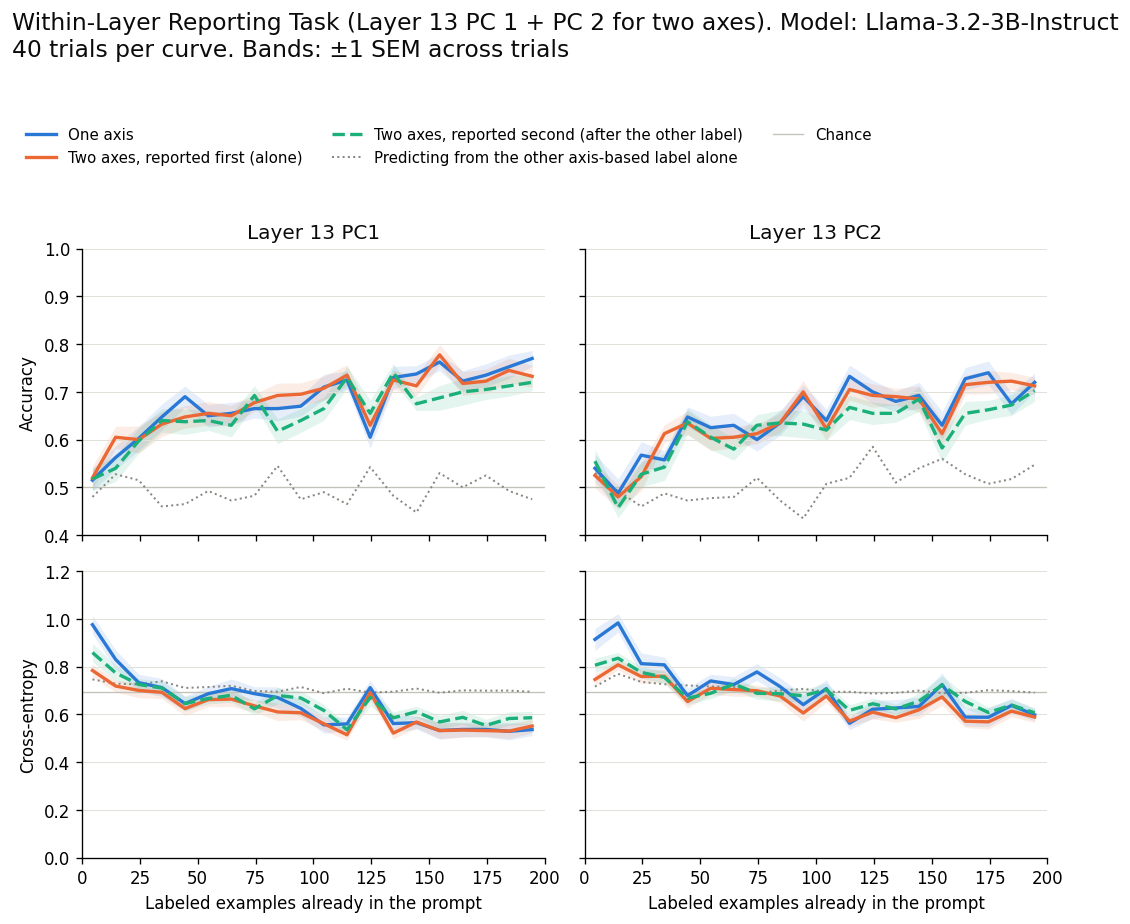
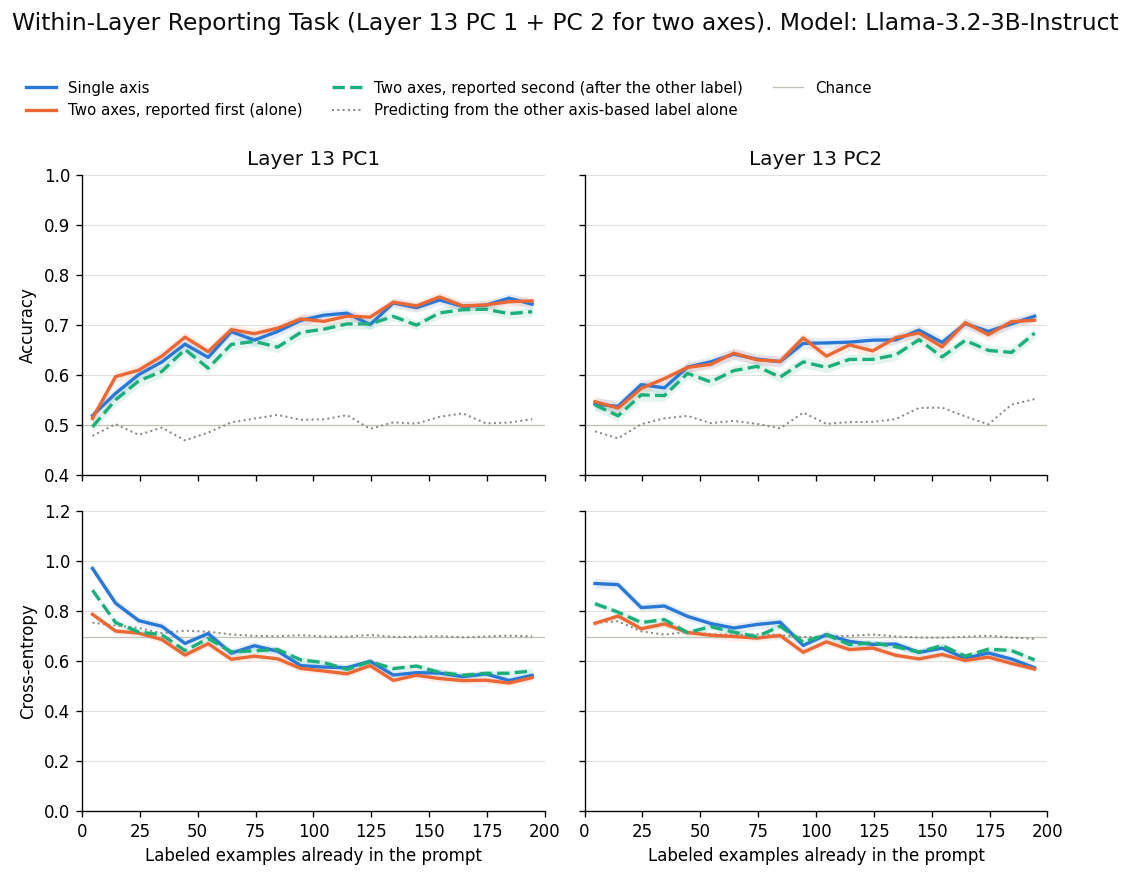
Update the reporting results. Also, update the README

diff --git a/README.md b/README.md
@@ -15,6 +15,9 @@ In this work, we give the model **multiple neurofeedback labels** per example an
 
 2. **Across layers:** Can the model report and control activations along the same axis type at two depths (e.g., the LR axis at an early layer and a later layer) independently?
 
+> [!CAUTION]
+> TODO: SUMMARIZE OUR FINDINGS
+
 ## Table of Contents
 
 - [Methods](#methods)
@@ -31,7 +34,7 @@ In this work, we give the model **multiple neurofeedback labels** per example an
 
 **Model:** [Llama-3.2-3B-Instruct](https://huggingface.co/meta-llama/Llama-3.2-3B-Instruct). 
 
-**Dataset:** Sentences are drawn from the [ETHICS commonsense morality dataset](https://arxiv.org/abs/2008.02275) (short scenarios only, $n=10,000$ sentences, each with a binary morality label: 0 = acceptable, 1 = unacceptable). 60% of the sentences are allocated as training data for fitting axe and the remaining 40% of the sentences are held out for the reporting and control tasks. 
+**Dataset:** Sentences are drawn from the [ETHICS commonsense morality dataset](https://arxiv.org/abs/2008.02275) (short scenarios only, $n=7,544$ sentences, each with a binary morality label: 0 = acceptable, 1 = unacceptable). 60% of the sentences are allocated as training data for fitting axe and the remaining 40% of the sentences are held out for the reporting and control tasks. 
 
 ### Identifying Axes 
 
@@ -90,7 +93,7 @@ Two additional counterbalanced label assignments are applied to every draw in a 
 - **Reversing Label order (two-axes setting only)**: each trial is also run with Score Y written before Score X in every example. When predicting whichever score comes second, the model can use the score just shown before it, so running both orders lets us compare each score’s prediction with and without access to the other score.
 - **Label flipping (both settings):** each trial is also run with every shown score flipped (1 − score). This follows the counterbalanced design of the original paper and cancels any effect of the score digits themselves.
 
-Each trial therefore yields 2 prompts in the single-axis setting (2 flips) and 4 in the two-axes setting (2 orders × 2 flips). We have 100 trials per task condition.
+For each task condition, we generate 100 trials, each consisting of 200 sampled sentences from the held-out set. Each trial yields two prompts in the single-axis setting (two flips) and four prompts in the two-axis setting (two score orderings × two flips).
 
 Although all labels appear in the prompt, the model's prediction for each label is read from the next-token logits at the position immediately before that label's digit: P("1") is the softmax over the logits of the tokens "0" and "1". Each prediction is based only on the preceding context, without access to that label or anything after it, so a prediction at the $t$-th example reflects $t-1$ in-context examples before it. All predictions for a prompt are read from a single forward pass.
 
@@ -116,7 +119,7 @@ Assistant: ← model generates here
 
 In the two-axes setting, the final instruction specifies both target scores, e.g. `Score X: 1, Score Y: 0`.
 
-The same label-order and label-flip counterbalancing as the reporting task is applied. Each trial therefore yields 2 prompts in the single-axis setting and 4 in the two-axes setting. We have 100 trials per task condition.
+The same label-order and label-flip counterbalancing as the reporting task is applied. For each task condition, we generate 100 trials, each consisting of 200 sampled sentences from the held-out set. Each trial therefore yields two prompts in the single-axis setting (two flips) and four prompts in the two-axis setting (two score orderings × two flips).
 
 For the control task, we test two modes, which differ only in where the reply comes from:
 - **Explicit control:** the model generates its own reply, and the activations of that reply are read afterward.
@@ -137,12 +140,28 @@ For the reporting and control tasks, we test six conditions. All conditions use 
 
 ## Results
 
-### Reporting Task: Within-layer
-![Within-layer reporting](figures/reporting_L13_PC1+PC2.png)
+We report results for the reporting task and then the control task, each for the within-layer (L13 PC1 + PC2) and across-layer (L6 + L20 LR) conditions, with the single-axis conditions as baselines.
 
+### Reporting Task: Within-layer
+  
+<a id="fig-reporting-within"></a>
+<p align="center">
+  <img src="figures/reporting_L13_PC1+PC2.png" width="80%"><br>
+  <em><b>Figure 1. Within-layer reporting performance is similar in the single-axis and two-axes settings. </b> Each column shows reporting performance for a target score derived from layer 13 PC1 (left) or PC2 (right). Accuracy (top) and cross-entropy (bottom) are plotted against the number of preceding labeled examples.  Curves show the single-axis setting (blue), the two-axis setting with the target score reported first (orange) or second (green, dashed), and prediction of the target score from the other axis-based label alone (gray, dotted). Chance is shown in gray (solid). Bands indicate ±1 SEM across 200 prompts (100 trials × 2 flips per curve).</em>
+</p>
+
+Performance is similar when the target score is reported alone (blue) or first in the two-axes setting (orange), but slightly lower when reported second (green, dashed). Predicting the target score from the other axis-based label alone (gray, dotted) remains near chance (gray, solid).
 
 ### Reporting Task: Across-layer
-![Across-layer reporting](figures/reporting_LR_L6+L20.png)
+<a id="fig-reporting-across"></a>
+<p align="center">
+  <img src="figures/reporting_LR_L6+L20.png" width="80%"><br>
+  <em><b>Figure 2. Across-layer reporting performance is similar in the single-axis and two-axes settings. </b> Each column shows reporting performance for a target score derived from layer 6 LR (left) or layer 20 LR (right). Accuracy (top) and cross-entropy (bottom) are plotted against the number of preceding labeled examples.  Curves show the single-axis setting (blue), the two-axis setting with the target score reported first (orange) or second (green, dashed), and prediction of the target score from the other axis-based label alone (gray, dotted). Chance is shown in gray (solid). Bands indicate ±1 SEM across 200 prompts (100 trials × 2 flips per curve)</em>
+</p>
+Accuracy is similar when the target score is reported alone (blue), first (orange), or second (green, dashed), although cross-entropy is lower in the two-axis setting. Predicting the target score from the other axis-based label alone (gray, dotted) achieves similar accuracy, indicating substantial overlap between the two labels. 
 
-### Control Task
+
+### Control Task: Within-Layer
 The same sentence is used for every prompt in a trial (all targets, score flips and score orders). Because the words are identical across score targets, any shift toward the target scores must come from the model representing the same sentence differently.
+
+### Control Task: Across-Layer
